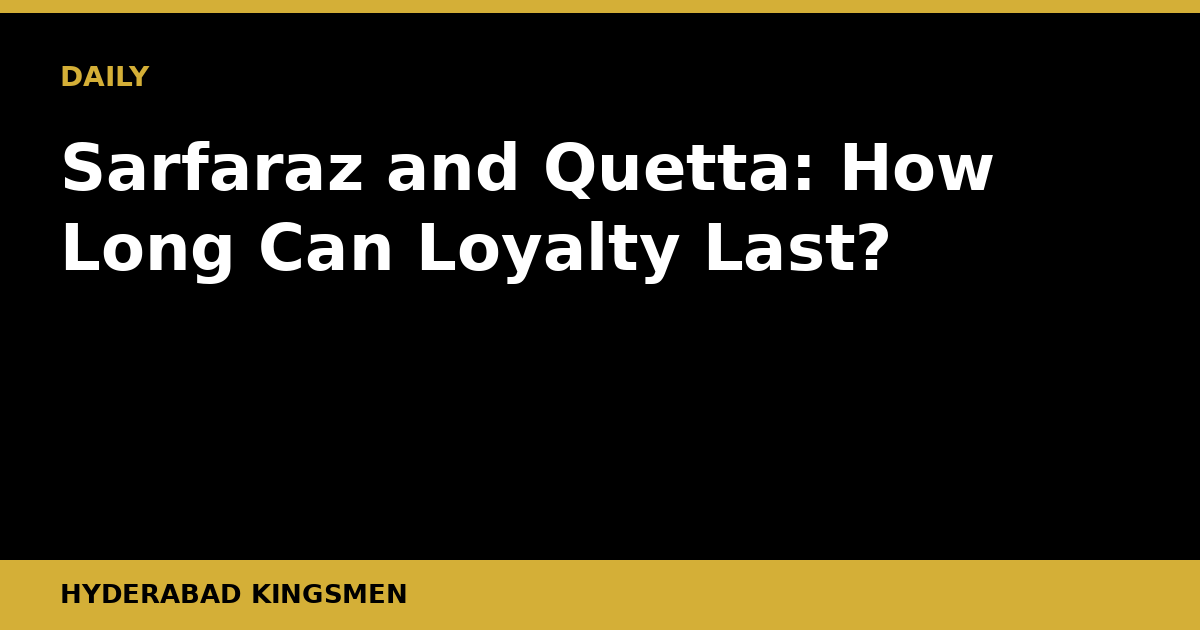
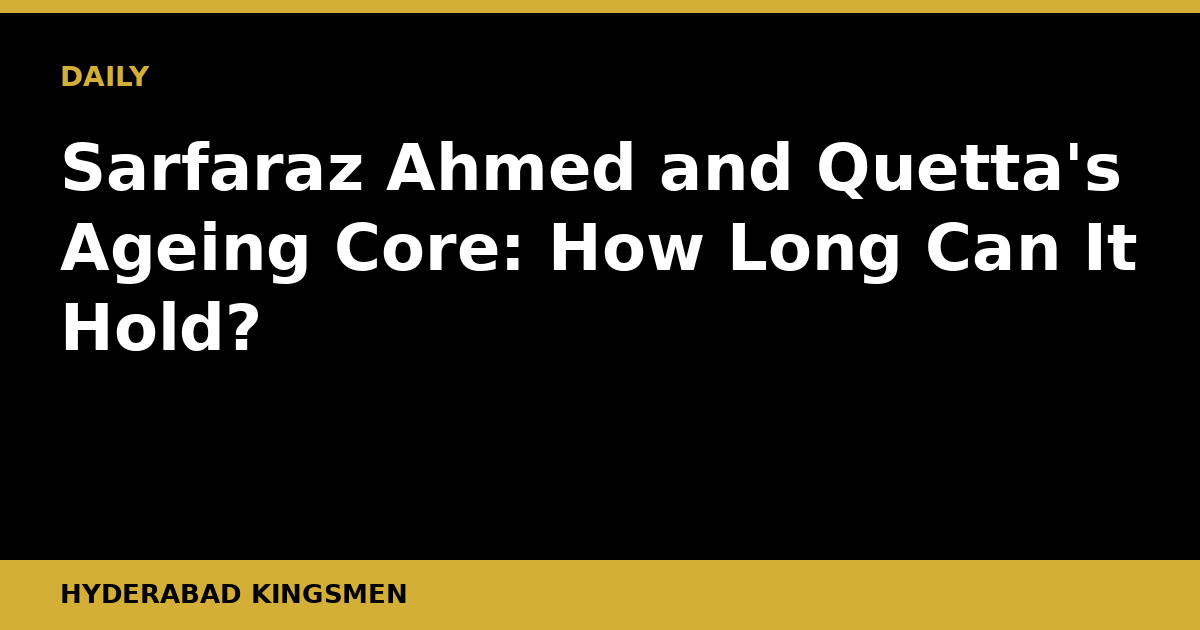
Daily post 2026-08-18

Changed region(s): [[0.0308, 0.2111, 0.9558, 0.4524], [0.0308, 0.4825, 0.2158, 0.573]]

diff --git a/content/posts/sarfaraz-ahmed-quetta-gladiators-ageing-core-leadership.md b/content/posts/sarfaraz-ahmed-quetta-gladiators-ageing-core-leadership.md
@@ -1,49 +1,51 @@
 ---
-title: "Sarfaraz and Quetta: How Long Can Loyalty Last?"
+title: "Sarfaraz Ahmed and Quetta's Ageing Core: How Long Can It Hold?"
 slug: "sarfaraz-ahmed-quetta-gladiators-ageing-core-leadership"
-date: "2026-07-13T04:26:18+05:00"
+date: "2026-08-18T02:12:00+05:00"
 draft: false
-description: "Sarfaraz Ahmed remains the heartbeat of Quetta Gladiators, but questions grow louder about whether loyalty to an ageing core is holding the franchise back."
+description: "Sarfaraz Ahmed remains Quetta Gladiators' heartbeat, but an ageing core raises hard questions about the franchise's next cycle of competitiveness in the PSL."
 banner: "/banners/sarfaraz-ahmed-quetta-gladiators-ageing-core-leadership.png"
 kicker: "ANALYSIS"
 author: "Hyderabad Kingsmen"
 translationKey: "sarfaraz-ahmed-quetta-gladiators-ageing-core-leadership"
-tags: ["psl", "quetta-gladiators", "sarfaraz-ahmed", "pakistan-cricket", "psl-franchise-strategy", "wicketkeeper-batters"]
+tags: ["psl", "quetta-gladiators", "sarfaraz-ahmed", "pakistan-cricket", "franchise-cricket", "t20-cricket", "captaincy"]
 categories: ["Analysis"]
 ---
 
-Sarfaraz Ahmed has given the Quetta Gladiators more than a decade of grit, runs, and match-turning wicketkeeping. The problem is that cricket, particularly the franchise format, does not reward sentiment for very long.
+Quetta Gladiators were the franchise that set the standard in the PSL's early years. Back-to-back titles in 2017 and 2019, a culture of grit, and a captain who embodied both. But franchise cricket moves fast, and the Gladiators' current roster carries a quiet tension between proven dependability and the creeping weight of years.
 
-## The Steadiness Is Real, But So Is the Clock
+## The Man Who Holds It Together
 
-Let us be fair first. Sarfaraz is not merely a symbolic captain. He reads T20 cricket intelligently, marshals bowling attacks with patience unusual in the format, and still delivers handy runs in the middle order when the team needs composure more than carnage. In a league where overseas stars rotate in and out each season, his institutional knowledge is genuinely valuable. The dressing room trusts him. Younger Pakistani players, in particular, lean on him.
+Sarfaraz Ahmed is, without question, one of Pakistan cricket's most accomplished limited-overs captains. His record speaks plainly: he led Pakistan to the 2017 ICC Champions Trophy and was the driving force behind Quetta's two PSL triumphs. His wicketkeeping remains sharp enough for franchise cricket, and his reading of the game, particularly his field placements and bowling changes in the middle overs, is still a genuine tactical asset.
 
-But the PSL has shifted under everyone's feet. The newer franchises arrived with money, data, and no attachment to names from a previous era. The format itself has moved toward athletes who can hit the ball into the next postal code and cover the ground as if they borrowed legs from someone half their age. Sarfaraz, now well into his thirties, does neither of those things at the level the modern PSL demands.
+But Sarfaraz is no longer a young captain building something. He is a senior statesman managing a team that has not lifted the PSL trophy since 2019. That is six seasons without a title. At some point, loyal leadership becomes a comfort blanket that a franchise needs to set aside, at least partially, to regenerate.
 
-## What This Is Really About: Transition Anxiety
+This is not a criticism of Sarfaraz the cricketer. It is an observation about franchise cycles.
 
-Quetta's deeper challenge is structural. The franchise has leaned on a recognisable core, Sarfaraz among them, for so long that the pipeline below that group is not entirely convincing. When you look at Quetta's squad construction in recent seasons, there is a familiar comfort to it. Trusted names, familiar combinations, a certain predictability. That predictability has delivered two PSL titles and several strong campaigns, so it is not as if the approach has been wrong.
+## The Deeper Problem: A Roster Built on Familiarity
 
-But the franchises that have pushed Quetta hardest in recent years have done so with speed, flexibility, and an unsentimental willingness to drop players who are not performing regardless of reputation. Quetta has not always matched that ruthlessness, and the gap it creates is becoming more visible.
+Quetta's tendency has been to re-sign proven performers rather than take aggressive bets on emerging talent. That approach made sense when the franchise was winning. It makes less sense now, when the PSL's competitive landscape has shifted considerably.
 
-Sarfaraz is part of that picture but he is not the whole picture. The question is not really whether Sarfaraz should be dropped. It is whether the franchise has been bold enough in building around him and, crucially, beyond him.
+Franchises like Lahore Qalandars have built pipelines, identifying and developing younger Pakistani talent with intent. Islamabad United retain a reputation for smart overseas recruitment. The Hyderabad Kingsmen, the newest entry in the competition, have injected fresh energy simply by being new. Quetta, by contrast, has continued to rely on a core that was forged half a decade ago.
 
-## The National Team Dimension
+The result is a squad that can still produce competitive performances, particularly when Sarfaraz is firing personally and the overseas slots are filled intelligently. But it is a squad that struggles to adapt mid-tournament when things go wrong, because the depth of youthful, hungry alternatives simply is not there in the same way it might be at other franchises.
 
-There is a broader Pakistan cricket angle here that should not be ignored. Sarfaraz's role in the national setup has fluctuated considerably. His return to the Test side under Shan Masood's reshaped squad was a genuinely interesting subplot, a reminder that he still has something to offer at the highest level. But the PSL is a different conversation. International fitness and form do not automatically translate into T20 franchise value, especially for a wicketkeeper-batter whose best asset in this format has always been cricketing intelligence rather than explosive power.
+## Leadership Without a Succession Plan
 
-If Pakistan cricket is serious about identifying the next generation of wicketkeeper-batters at the domestic level, then the PSL needs to be the arena where that competition happens openly. That becomes difficult when an established name occupies the slot season after season, however deserved that occupancy has been historically.
+Perhaps the most delicate issue is one Quetta's management have not addressed publicly: what comes after Sarfaraz?
 
-## Going Forward: Gladiators at a Crossroads
+In franchise cricket, captaincy succession planning is as important as player recruitment. Great teams do not wait for a leader to age out before identifying who carries the culture forward. They develop it in parallel. At Quetta, there is no obvious heir apparent who has been groomed in front of the domestic audience the way, say, Shaheen Shah Afridi was being positioned at Lahore even before he took the armband.
 
-Quetta faces a genuine strategic decision, not just about Sarfaraz but about the identity of the franchise going forward. Do they trust the core that delivered their titles and hope experience sees them through, or do they begin a more deliberate rebuilding phase, accepting some short-term pain for long-term competitiveness?
+This creates a structural vulnerability. If Sarfaraz has one or two lean tournaments, the franchise faces a harder conversation without a ready replacement who has been cultivated for exactly that moment.
 
-The honest answer is that they probably need to do both simultaneously, which is the hardest thing to manage in franchise cricket. Keep the leaders who add value, but be unambiguous about where the fresh investment is going.
+## What This Means Going Forward
 
-Sarfaraz, for his part, has earned the right to make this decision on his own terms. But Quetta's management has a responsibility to the franchise's future that goes beyond any single player's legacy.
+Quetta are not in crisis. A squad anchored by Sarfaraz's experience and supplemented by quality overseas players will always be competitive. But competitive and title-contending are different things in T20 cricket, where margins are decided by the freshness of ideas as much as the quality of players.
+
+The Gladiators need a deliberate strategy shift. That means investing in one or two young Pakistani batters or seamers who can be nurtured across multiple PSL seasons, not just signed and released. It means creating a context in which Sarfaraz is still the captain but is also consciously mentoring the next generation within the dressing room. And it means management being honest about the squad's ceiling under the current structure.
+
+There is still plenty of good cricket in Sarfaraz Ahmed. The question is whether Quetta's front office is building around him in a way that extends the franchise's window, or simply running out the clock on a fine era.
 
 ## What to Watch
 
-Keep an eye on how Quetta deploy their local picks in the next PSL edition, particularly in the wicketkeeping slot and the middle order. If the same names appear in the same roles with no visible plan behind them, it will tell you everything about where the franchise's priorities sit. Watch also for any signals from Sarfaraz himself about his own read on his capacity and appetite. He has always been a straight talker. When he decides to step back, he is likely to say so plainly.
-
-Until then, Quetta's tension between loyalty and reinvention remains one of the more quietly compelling storylines in Pakistani franchise cricket.
+In the next PSL edition, watch Quetta's draft and recruitment decisions closely. Do they continue to prioritise familiar, experienced names, or is there a visible pivot toward younger domestic talent? Watch also how Sarfaraz handles pressure moments: his responses there will tell you everything about whether the leadership is evolving or merely enduring. And watch the middle-overs batting. That phase has been Quetta's most exposed area, and how they address it will define whether this is a squad transitioning or one simply marking time.
